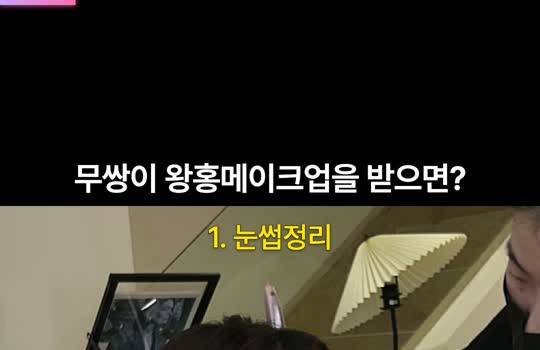
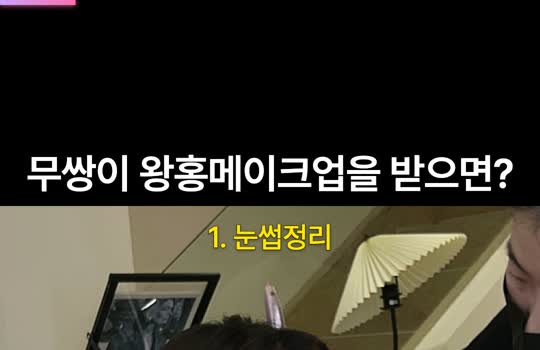
제목 크기 키움(화면 폭에 맞춰 약 77px)

Changed region(s): [[0.0296, 0.4286, 0.9481, 0.5714]]

diff --git a/editor/src/1010wh-editor/styles.ts b/editor/src/1010wh-editor/styles.ts
@@ -46,7 +46,7 @@ export const PRESETS = {
 	label2: {label: '노랑 굵은 고딕 라벨 (폰트2)', font: 'Aggro', size: 76, color: '#ffe600', stroke: 12, strokeColor: '#000', letterSpacing: '-0.02em', lineHeight: 1.1},
 	bold7: {label: '흰 굵은 고딕 + 검정 테두리 (폰트7 메인)', font: 'Aggro', size: 96, color: '#fff', stroke: 12, strokeColor: '#000', letterSpacing: '-0.02em', lineHeight: 1.1},
 	sub7: {label: '노랑 괄호 보조자막 (폰트7 위)', font: 'GowunDodum', size: 54, color: '#ffe600', stroke: 7, strokeColor: '#1a1400', shadow: '0 3px 6px rgba(0,0,0,.5)', lineHeight: 1.2},
-	title2: {label: '흰 제목 (폰트2 위 띠)', font: 'PretendardSemiBold', size: 74, color: '#fff', stroke: 0, strokeColor: 'transparent', shadow: '0 2px 4px rgba(0,0,0,.6)', letterSpacing: '-0.02em', lineHeight: 1.25, weight: 600},
+	title2: {label: '흰 제목 (폰트2 위 띠)', font: 'PretendardSemiBold', size: 84, color: '#fff', stroke: 0, strokeColor: 'transparent', shadow: '0 2px 4px rgba(0,0,0,.6)', letterSpacing: '-0.02em', lineHeight: 1.25, weight: 600},
 	round: {label: '둥근 손글씨 + 보라 글로우 (v2)', font: 'PoorStory', size: 120, color: '#fff', stroke: 12, strokeColor: '#a96ee8', glow: 'rgba(169,110,232,.8)', glowSize: 1, letterSpacing: '-0.02em', lineHeight: 1.08},
 } satisfies Record<string, StylePreset>;
 

diff --git a/editor/src/1010wh-editor/Editor.tsx b/editor/src/1010wh-editor/Editor.tsx
@@ -191,7 +191,8 @@ const TitleBar: React.FC<{props: EditorProps}> = ({props}) => {
 	const p = presetOf(props.titleStyle, props.custom);
 	const lines = props.title.split('\n');
 	const n = Math.max(...lines.map((l) => l.length));
-	const size = Math.min(p.size, 1000 / (n * 0.95 * (p.scaleX ?? 1)));
+	// 한글 실측 폭 ≈ 0.78em/자 → 화면 폭 1020px 안에서 최대한 크게
+	const size = Math.min(p.size, 1020 / (n * 0.78 * (p.scaleX ?? 1)));
 	return <>
 		<div style={{position: 'absolute', top: 0, left: 0, width: 1080, height: THIRDS.barTop, display: 'flex', alignItems: 'flex-end', justifyContent: 'center', paddingBottom: 14}}>{/* 제목은 영상 칸 바로 위에 붙임 */}
 			<div style={{...look(p), fontSize: size, lineHeight: p.lineHeight, textAlign: 'center', whiteSpace: 'nowrap', transform: p.scaleX ? `scaleX(${p.scaleX})` : undefined, filter: outerFilter(p)}}>{lines.map((l, i) => <div key={i}>{l}</div>)}</div>

diff --git a/docs/04_자막기준.md b/docs/04_자막기준.md
@@ -13,7 +13,7 @@
 ## 2. 레이아웃 — 삼등분(폰트2 예시)
 | 영역 | y 범위 | 내용 |
 |---|---|---|
-| 위 검정 띠 | 0~412 | 제목 한 줄 "무쌍이 왕홍메이크업을 받으면?" — **영상 칸 바로 위에 붙임**(아래 정렬, 여백 14px). title2(Pretendard SemiBold 74, 흰색, 그림자 0 2px 4px rgba(0,0,0,.6)) |
+| 위 검정 띠 | 0~412 | 제목 한 줄 "무쌍이 왕홍메이크업을 받으면?" — **영상 칸 바로 위에 붙임**(아래 정렬, 여백 14px). title2(Pretendard SemiBold, 화면 폭에 맞춰 최대 약 77px, 흰색, 그림자 0 2px 4px rgba(0,0,0,.6)) |
 | 영상 | 412~1508 | base_square.mp4(1080x1096) |
 | 아래 검정 띠 | 1508~1920 | 비움(채널명 넣을 수 있음 — `bottomText`). 쇼츠 UI가 덮는 영역 |
 위치 값(삼등분): top 440 / upper 600 / middle 1000 / **lower 1220(기본)**. 전체화면: 220/420/1050/1230.
@@ -44,7 +44,7 @@
 | point_glow | Pretendard Medium | 54 | #fff | 없음 | 글로우 rgba(255,45,75,.9) ×0.6 | 강조 단어 |
 | sha | Gowun Batang Regular | 96 | #fff | 2px rgba(255,170,215,.95) | 분홍 글로우 rgba(255,110,190,.85), 일렁임 | 샤랄라 연출과 세트 |
 | label_thin | Pretendard Medium | 58 | #ffe600 | 3px rgba(0,0,0,.75) | 0 2px 6px .45 | 단계 라벨 |
-| title2 | Pretendard SemiBold 600 | 74 | #fff | 없음 | 0 2px 4px .6 | 위 띠 제목 |
+| title2 | Pretendard SemiBold 600 | 84(폭 맞춰 약 77) | #fff | 없음 | 0 2px 4px .6 | 위 띠 제목 |
 글로우 = `text-shadow: 0 0 10x, 0 0 24x, 0 0 44x` (x = glowSize). 테두리 = `-webkit-text-stroke` + `paint-order: stroke fill`.
 예비 프리셋(현재 미사용): hx_basic, hx_title, hx_pink, hx_point, red2(뷰티폰트2 원형), glow3, pink6, brush, label2, bold7, sub7, round, thin.
 
